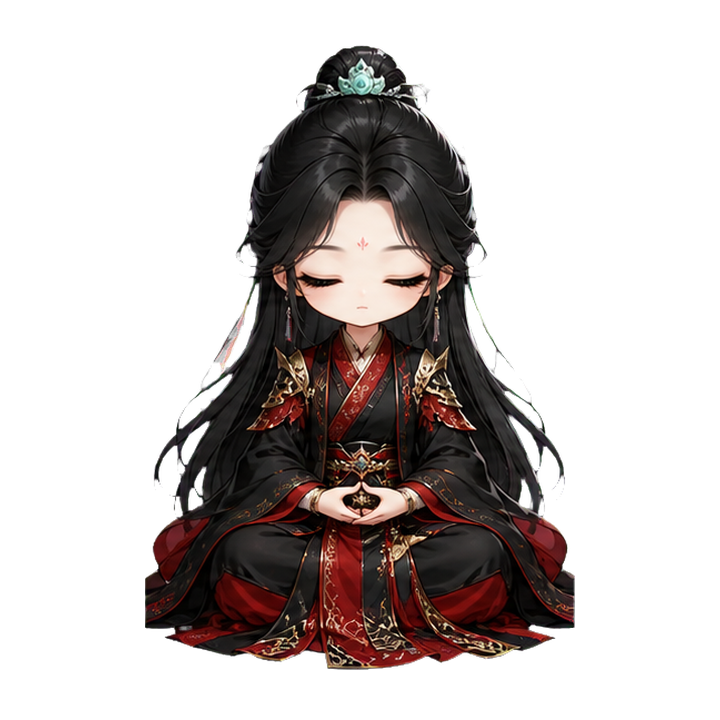
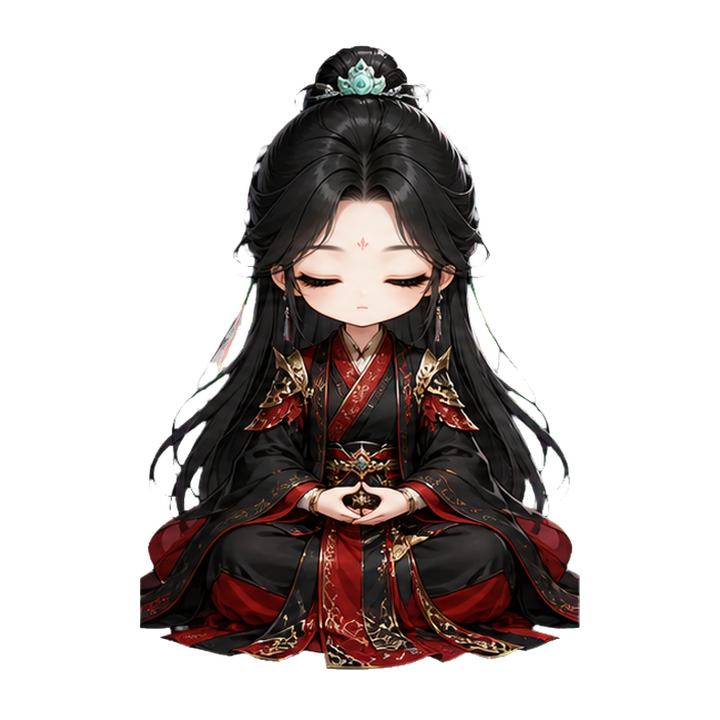
feat: refine cultivation UI and character art

diff --git a/q-style.css b/q-style.css
@@ -100,3 +100,132 @@
 .q-style .path-button.body-button{left:auto;right:3%;top:auto;bottom:0;transform:none}
 @media(min-width:900px){.q-style .path-actions{width:660px}.q-style .path-button,.q-style .path-button.body-button,.q-style .path-button.sword-button{width:128px}}
 @media(max-width:540px){.q-style .path-button,.q-style .path-button.body-button,.q-style .path-button.sword-button{width:103px}.q-style .path-button.spirit-button{left:1%}.q-style .path-button.body-button{right:1%}}
+
+/* Stable cultivation stage: hero and seals share one bottom-anchored coordinate system. */
+.q-style .game-screen{--q-nav-height:78px;--q-path-zone:132px}
+.q-style .path-actions{
+  left:50%;right:auto;top:auto;bottom:var(--q-nav-height);
+  width:min(660px,100%);height:var(--q-path-zone);
+  transform:translateX(-50%);display:block
+}
+.q-style .path-button,
+.q-style .path-button.body-button,
+.q-style .path-button.sword-button{
+  top:auto;bottom:8px;min-height:0;padding:0
+}
+.q-style .path-button.spirit-button{left:0;right:auto;transform:none}
+.q-style .path-button.sword-button{left:50%;right:auto;transform:translateX(-50%)}
+.q-style .path-button.body-button{left:auto;right:0;transform:none}
+.q-style .hero-stack{
+  left:50%;bottom:calc(var(--q-nav-height) + var(--q-path-zone) - 2px);
+  width:min(440px,70vw);height:min(50vh,625px);
+  transform:translateX(-50%)
+}
+@media(max-height:760px){
+  .q-style .hero-stack{bottom:calc(var(--q-nav-height) + var(--q-path-zone) - 2px);height:min(50vh,625px)}
+  .q-style .path-button,.q-style .path-button.body-button,.q-style .path-button.sword-button{min-height:0;padding:0}
+}
+@media(max-width:540px){
+  .q-style .game-screen{--q-path-zone:128px}
+  .q-style .path-actions{width:100%}
+  .q-style .path-button.spirit-button{left:0}
+  .q-style .path-button.body-button{right:0}
+}
+
+/* Keep all three cultivation seals on an identical vertical baseline. */
+.q-style .path-button,
+.q-style .path-button.body-button,
+.q-style .path-button.sword-button{
+  height:124px;justify-content:flex-start
+}
+.q-style .path-button img{flex:0 0 auto}
+.q-style .path-button span{
+  flex:0 0 54px;height:54px;justify-content:flex-start;line-height:1.2
+}
+.q-style .path-button b{line-height:21px}
+.q-style .path-button small,.q-style .path-button em{line-height:14px}
+
+/* Pixel-lock every seal instead of letting each button's content determine its height. */
+.q-style .path-button,
+.q-style .path-button.body-button,
+.q-style .path-button.sword-button{
+  top:0!important;bottom:auto!important;height:124px!important;
+  display:block!important;font-family:inherit!important
+}
+.q-style .path-button img{
+  position:absolute!important;top:0!important;left:50%!important;
+  width:64px!important;height:64px!important;margin:0!important;
+  transform:translateX(-50%)!important
+}
+.q-style .path-button span{
+  position:absolute!important;top:68px!important;left:0!important;right:0!important;
+  width:100%!important;height:56px!important;margin:0!important;padding:0!important;
+  display:grid!important;grid-template-rows:22px 15px 15px!important;
+  align-content:start!important;justify-items:center!important
+}
+.q-style .path-button b{
+  margin:0!important;font-size:17px!important;line-height:22px!important;font-weight:900!important
+}
+.q-style .path-button small,
+.q-style .path-button em,
+.q-style .path-button.body-button em{
+  margin:0!important;font-size:11px!important;line-height:15px!important;font-weight:800!important
+}
+@media(max-width:540px){
+  .q-style .path-button img{width:58px!important;height:58px!important}
+  .q-style .path-button span{top:62px!important}
+  .q-style .path-button b{font-size:15px!important}
+  .q-style .path-button small,.q-style .path-button em,.q-style .path-button.body-button em{font-size:9px!important}
+}
+
+/* Final three-column layout: one identical cell for each cultivation path. */
+.q-style .path-actions{
+  display:grid!important;grid-template-columns:repeat(3,minmax(0,1fr))!important;
+  align-items:start!important;justify-items:stretch!important;padding:0 8px!important;
+  box-sizing:border-box!important
+}
+.q-style .path-button,
+.q-style .path-button.spirit-button,
+.q-style .path-button.sword-button,
+.q-style .path-button.body-button{
+  position:relative!important;inset:auto!important;left:auto!important;right:auto!important;
+  top:auto!important;bottom:auto!important;transform:none!important;
+  justify-self:stretch!important;width:100%!important;min-width:0!important;
+  height:124px!important;margin:0!important
+}
+.q-style .path-button img{top:0!important}
+.q-style .path-button span{top:68px!important}
+.q-style .path-button b,
+.q-style .path-button small,
+.q-style .path-button em{
+  width:100%!important;text-align:center!important;font-family:"Microsoft JhengHei","Noto Sans TC",sans-serif!important
+}
+@media(max-width:540px){
+  .q-style .path-actions{padding:0 3px!important}
+  .q-style .path-button span{top:62px!important}
+}
+
+/* Keep each text block in the same flow as its own icon. */
+.q-style .path-button,
+.q-style .path-button.spirit-button,
+.q-style .path-button.sword-button,
+.q-style .path-button.body-button{
+  display:flex!important;flex-direction:column!important;
+  align-items:center!important;justify-content:flex-start!important;gap:4px!important
+}
+.q-style .path-button img{
+  position:static!important;inset:auto!important;left:auto!important;top:auto!important;
+  margin:0 auto!important;transform:none!important;flex:0 0 64px!important
+}
+.q-style .path-button span{
+  position:static!important;inset:auto!important;left:auto!important;right:auto!important;top:auto!important;
+  width:100%!important;height:56px!important;margin:0!important;padding:0!important;
+  display:flex!important;flex-direction:column!important;align-items:center!important;
+  justify-content:flex-start!important;flex:0 0 56px!important
+}
+@media(max-width:540px){
+  .q-style .path-button img{flex-basis:58px!important}
+}
+
+/* Cultivation controls belong to the main meditation view only. */
+.q-style .game-screen.feature-open .path-actions{display:none!important}

diff --git a/game.js b/game.js
@@ -74,7 +74,7 @@ const wardrobeOutfits={
 };
 const trueFormCatalog=[
   {id:'none',name:'返璞歸真',description:'收斂真身異象，以本來面目示人。'},
-  {id:'taixu-sword',name:'太虛劍相',image:'assets/qstyle-v2/true-form-sword.png',description:'九柄虛靈古劍結成劍輪，隨吐納緩緩流轉。'},
+  {id:'taixu-sword',name:'太虛劍相',image:'assets/qstyle-v2/true-form-sword-v2.png',description:'八方虛靈古劍結成劍陣，隨吐納明滅共鳴。'},
   {id:'jiuxiao-wings',name:'九霄靈翼',image:'assets/qstyle-v2/true-form-wings.png',description:'以清靈元息凝成的光翼，非羽非骨，如雲霞舒展。'}
 ];
 const defaults = { name:'', gender:'女', hair:1, outfit:1, trueForm:'none', origin:'家族子弟', muted:false, free:0, spiritLevel:0, bodyLevel:0, swordLevel:0, pills:1, totalEarned:0, rootBone:5, trueQi:5, physique:5, agility:5, spiritualPower:5, comprehension:5, fortune:5, attributeGrowthVersion:2, learnedArts:[],artsCapacity:8,bagRank:1,mendingSilk:0,metalArt:0, woodArt:0, waterArt:0, fireArt:0, earthArt:0, metalRoot:0, woodRoot:0, waterRoot:0, fireRoot:0, earthRoot:0, aura:0, spiritPoolLevel:1, spiritStone:0, spiritJade:0, food:200, wood:40, meteorIron:20, daoChildTotal:1, daoChildBought:0, workerSpiritStone:0, workerFood:0, workerWood:0, workerMeteorIron:0, spiritStoneAreaLevel:1, foodAreaLevel:1, woodAreaLevel:1, meteorIronAreaLevel:1, sect:'', sectFaction:'', sectStar:0, sectContribution:0, sectRank:0, sectTask:'', sectJoinedAt:null, sectYearsProcessed:0, righteousness:0, evilQi:0, prestige:200, actingLeader:false, npcAffinity:{}, npcDaily:{}, sectTokens:0, sectTokenDaily:{date:'',exchanged:0}, practiceBuff:{active:false,until:0,remaining:0,total:0}, transmissionBuff:{active:false,until:0,remaining:0,total:0}, lastGreetingDay:'', lastSalaryDay:'', lastPracticeDay:'', bornAt:null, lastTrustedTime:0, lastSave:Date.now() };
@@ -89,8 +89,12 @@ function gameNow(){return Math.floor(clockEpoch+(performance.now()-clockPerf))}
 function appearanceAsset(gender,appearance,outfit){
   if(qStyleMode){
     const g=gender==='男'?'male':'female';
-    const selected=Math.max(1,Math.min(5,Number(outfit)||1));
-    return `assets/qstyle-v2/${g}-outfit-${selected}.png`;
+    const selectedOutfit=Math.max(1,Math.min(5,Number(outfit)||1));
+    const selectedAppearance=Math.max(1,Math.min(3,Number(appearance)||1));
+    const asset=selectedAppearance===1
+      ? `assets/qstyle-v2/${g}-outfit-${selectedOutfit}.png`
+      : `assets/qstyle-v2/${g}-appearance-${selectedAppearance}-outfit-${selectedOutfit}.png`;
+    return `${asset}?v=20260810c`;
   }
   const g=gender==='男'?'male':'female';
   const version=appearance===2?'v2':'v1';
@@ -484,7 +488,7 @@ function renderSectView(view){
   }
   if(view==='npcs'){inner.innerHTML=`<div class="npc-grid">${sectNpcs().map((n,index)=>`<button class="npc-card" data-npc="${index}"><span class="npc-portrait p${n.portrait}" style="--portrait-hue:${n.id%37-18}deg;--portrait-bright:${.92+(n.id%9)*.02}"></span><b>${n.title}</b><strong>${n.name}</strong><small>${realmName(n.level,spiritRealms)}</small></button>`).join('')}</div><div id="npcDetail" class="npc-detail">點選一位門人進行互動</div>`;$$('.npc-card').forEach(b=>b.onclick=()=>renderNpcDetail(+b.dataset.npc));return}
   if(view==='shop'){renderSectShop();return}
-  if(view==='tasks'){inner.innerHTML=`<div class="task-list">${sectTasks.map(t=>`<button data-task="${t.id}" class="task-card ${state.sectTask===t.id?'active':''}" ${state.spiritLevel<t.need?'disabled':''}><b>${t.name}</b><span>每年：貢獻+${t.gain}・靈石+${t.stone}・威望+${t.prestige}</span><small>${t.desc}</small><em>${state.spiritLevel>=t.need?'可接取':`需 ${realmName(t.need,spiritRealms)}`}</em></button>`).join('')}</div><p class="sect-note">任務會持續執行；境界提高後不會自動更換。叛教時任務立即終止。</p>`;$$('.task-card:not(:disabled)').forEach(b=>b.onclick=()=>{state.sectTask=b.dataset.task;toast(`開始持續任務：${selectedSectTask().name}`);renderSectView('tasks');save()});return}
+  if(view==='tasks'){inner.innerHTML=`<div class="task-list">${sectTasks.map(t=>`<button data-task="${t.id}" class="task-card ${state.sectTask===t.id?'active':''}" ${state.spiritLevel<t.need?'disabled':''}><b>${t.name}</b><span>每年：貢獻+${t.gain}・靈石+${t.stone}・威望+${t.prestige}</span><small>${t.desc}</small><em>${state.sectTask===t.id?'已接取':state.spiritLevel>=t.need?'可接取':`需 ${realmName(t.need,spiritRealms)}`}</em></button>`).join('')}</div><p class="sect-note">任務會持續執行；境界提高後不會自動更換。叛教時任務立即終止。</p>`;$$('.task-card:not(:disabled)').forEach(b=>b.onclick=()=>{state.sectTask=b.dataset.task;toast(`開始持續任務：${selectedSectTask().name}`);renderSectView('tasks');save()});return}
   if(view==='practice'){
     const can=state.sectRank>=1,done=state.lastPracticeDay===dateKey(),practiceOn=buffActive('practiceBuff'),transmissionOn=buffActive('transmissionBuff');
     const practiceReason=!can?'需晉升內門弟子':done?'今日已完成':state.spiritStone<1000?`尚缺 ${Math.ceil(1000-state.spiritStone)} 靈石`:'開始練功';

diff --git a/styles.css b/styles.css
@@ -177,3 +177,10 @@
 .path-button em,.path-button.body-button em{color:#174f45;font-size:11px;font-weight:900;text-shadow:none}
 .path-button.ready{animation:none}.path-button.ready img{animation:pathIconReady 1.5s ease-in-out infinite}@keyframes pathIconReady{50%{filter:drop-shadow(0 0 7px #78d9b9)}}
 @media(max-width:540px){.path-button.spirit-button{left:1%}.path-button.body-button{right:1%}.path-button.spirit-button,.path-button.sword-button,.path-button.body-button{bottom:1px}.path-button b{font-size:15px}.path-button small,.path-button em{font-size:9px}}
+
+/* True-form artwork: transparent card previews and stable, non-flipping sword formation. */
+.true-form-preview{background:linear-gradient(135deg,#eee5d3,#e1d4bb)}
+.true-form-preview img{width:96%;height:96%;opacity:.9}
+.true-form-card[data-true-form="taixu-sword"] .true-form-preview img{width:84%;height:84%}
+.hero-stack .true-form-taixu-sword{inset:-5%;width:110%;height:110%;animation:trueFormSwordStable 5.2s ease-in-out infinite,trueFormPulse 3.8s ease-in-out infinite}
+@keyframes trueFormSwordStable{0%,100%{transform:translateY(0) scale(.97)}50%{transform:translateY(-1.2%) scale(1.015)}}
